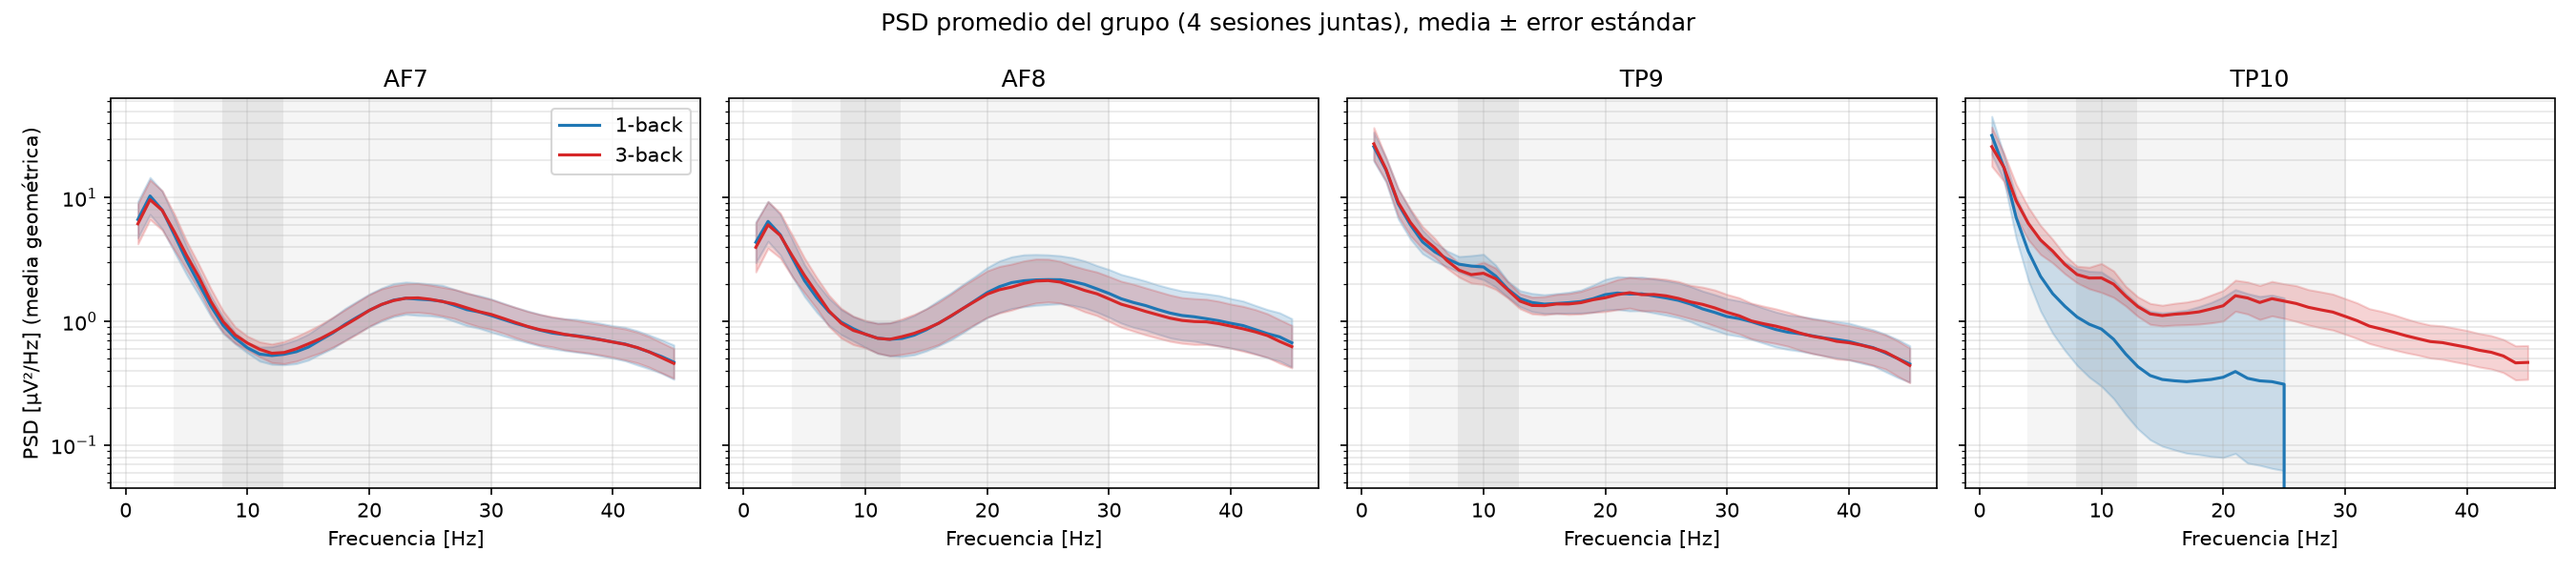
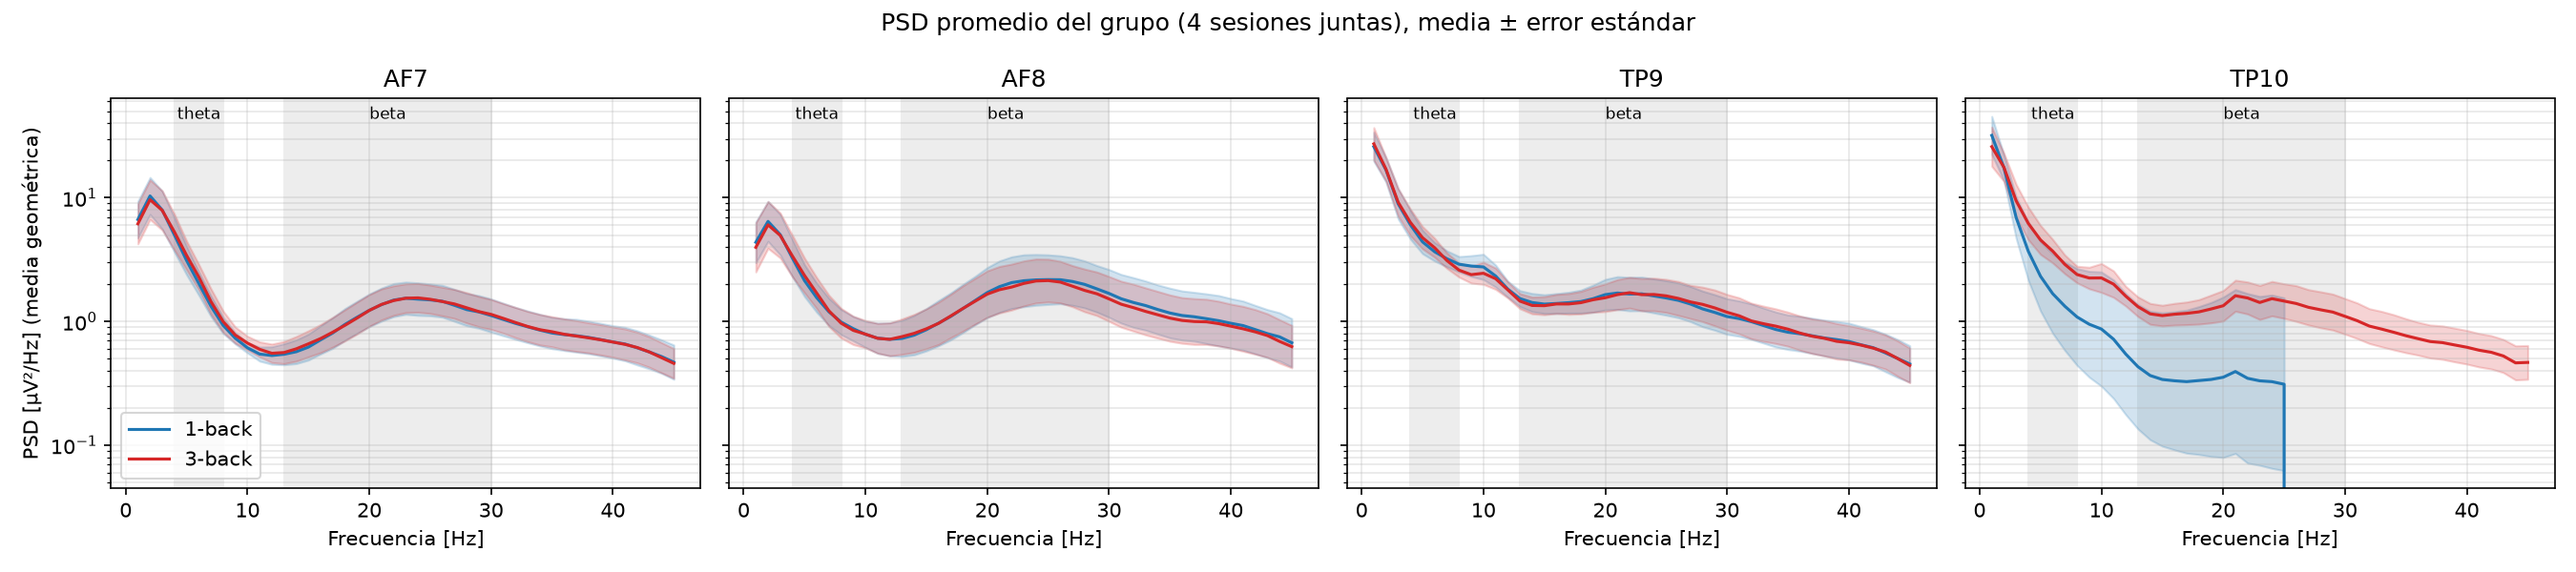
colores

diff --git a/6.analisis_integral.py b/6.analisis_integral.py
@@ -29,6 +29,8 @@ Guarda en resultados/06_grupo/:
   - conducta.csv:           aciertos por sujeto, sesión y tarea
   - grupo_interaccion.png, grupo_efecto_carga.png, grupo_efecto_musica.png,
     grupo_psd.png, grupo_conducta.png
+En las figuras con datos de cada sujeto, A9 (el sujeto del paper) va en naranja.
+Las tablas incluyen las 3 bandas; las figuras muestran solo theta y beta (alfa no se analiza).
 """
 import numpy as np
 import pandas as pd
@@ -44,8 +46,11 @@ VARIABLE = "potencia_rel"      # o "potencia_abs_uV2"
 MIN_VENTANAS = 20              # mínimo de ventanas aceptadas para usar un valor
 TAREAS = ["1-back", "3-back"]
 COLORES_TAREA = {"1-back": "tab:blue", "3-back": "tab:red"}
+SUJETO_PAPER = "A9"            # el sujeto que analiza el paper: se resalta en las figuras
+COLOR_PAPER = "tab:orange"
 canales = cfg.CANALES_ANALISIS
-bandas = list(cfg.BANDAS)
+bandas = list(cfg.BANDAS)                          # tablas: todas las bandas
+BANDAS_GRAFICOS = [b for b in bandas if b != "alfa"]  # figuras: solo theta y beta
 x = np.arange(len(cfg.SESIONES))
 
 
@@ -143,9 +148,9 @@ conducta.round(2).to_csv(DIR_GRUPO / "conducta.csv", index=False)
 # ---------------------------------------------------------------------------
 
 # --- Figura 1: interacción. Filas = bandas, columnas = canales ---
-fig, axs = plt.subplots(len(bandas), len(canales),
-                        figsize=(4.2 * len(canales), 3 * len(bandas)), squeeze=False)
-for fila, banda in enumerate(bandas):
+fig, axs = plt.subplots(len(BANDAS_GRAFICOS), len(canales),
+                        figsize=(4.2 * len(canales), 3 * len(BANDAS_GRAFICOS)), squeeze=False)
+for fila, banda in enumerate(BANDAS_GRAFICOS):
     for col, canal in enumerate(canales):
         ax = axs[fila, col]
         for k, tarea in enumerate(TAREAS):
@@ -168,13 +173,20 @@ fig.savefig(DIR_GRUPO / "grupo_interaccion.png", dpi=150)
 plt.close(fig)
 
 # --- Figura 2: carga, un punto por sujeto ---
-fig, axs = plt.subplots(1, len(bandas), figsize=(4.5 * len(bandas), 4.5), sharey=True)
-for ax, banda in zip(axs, bandas):
+fig, axs = plt.subplots(1, len(BANDAS_GRAFICOS), figsize=(4.5 * len(BANDAS_GRAFICOS), 4.5),
+                        sharey=True, squeeze=False)
+axs = axs[0]
+for ax, banda in zip(axs, BANDAS_GRAFICOS):
     for c, canal in enumerate(canales):
-        v = carga_sujeto[(carga_sujeto["canal"] == canal)
-                         & (carga_sujeto["banda"] == banda)]["cambio_pct"].dropna()
-        ax.scatter(np.full(len(v), c) + np.random.uniform(-0.1, 0.1, len(v)), v,
-                   color="0.5", s=20, zorder=2)
+        d = carga_sujeto[(carga_sujeto["canal"] == canal)
+                         & (carga_sujeto["banda"] == banda)].dropna(subset=["cambio_pct"])
+        v = d["cambio_pct"]
+        es_paper = (d["sujeto"] == SUJETO_PAPER).to_numpy()
+        jitter = np.random.uniform(-0.1, 0.1, len(v))
+        ax.scatter(c + jitter[~es_paper], v[~es_paper], color="0.5", s=20, zorder=2)
+        ax.scatter(c + jitter[es_paper], v[es_paper], color=COLOR_PAPER, s=45,
+                   edgecolor="k", lw=0.5, zorder=4,
+                   label=SUJETO_PAPER if c == 0 else None)
         ax.scatter(c, a_pct(np.log10(1 + v / 100).mean()), color="k", marker="_",
                    s=600, zorder=3)
         ax.text(c, 1.0, f"{(v < 0).sum()}↓ {(v > 0).sum()}↑",
@@ -185,22 +197,28 @@ for ax, banda in zip(axs, bandas):
     ax.set_title(banda)
     ax.grid(alpha=0.3, axis="y")
 axs[0].set_ylabel("Cambio 3-back vs 1-back [%]")
-fig.suptitle("Efecto de la carga: cada sujeto (gris) y media del grupo (negro); "
-             "↓↑ = sujetos que bajan / suben")
+axs[0].legend(loc="lower left")
+fig.suptitle(f"Efecto de la carga: cada sujeto (gris), {SUJETO_PAPER} (naranja) y media del "
+             "grupo (negro); ↓↑ = sujetos que bajan / suben")
 fig.tight_layout()
 fig.savefig(DIR_GRUPO / "grupo_efecto_carga.png", dpi=150)
 plt.close(fig)
 
 # --- Figura 3: música, una línea por sujeto ---
-fig, axs = plt.subplots(len(bandas), len(canales),
-                        figsize=(4.2 * len(canales), 3 * len(bandas)), squeeze=False, sharex=True)
-for fila, banda in enumerate(bandas):
+fig, axs = plt.subplots(len(BANDAS_GRAFICOS), len(canales),
+                        figsize=(4.2 * len(canales), 3 * len(BANDAS_GRAFICOS)), squeeze=False,
+                        sharex=True)
+for fila, banda in enumerate(BANDAS_GRAFICOS):
     for col, canal in enumerate(canales):
         ax = axs[fila, col]
         m = log_musica.xs((canal, banda), level=["canal", "banda"])
-        for _, valores in m.iterrows():
-            ax.plot(x, a_pct(valores), color="0.7", lw=0.8)
-        ax.plot(x, a_pct(m.mean()), color="k", lw=2, marker="o")
+        for sujeto, valores in m.iterrows():
+            if sujeto != SUJETO_PAPER:
+                ax.plot(x, a_pct(valores), color="0.7", lw=0.8)
+        ax.plot(x, a_pct(m.mean()), color="k", lw=2, marker="o", label="media del grupo")
+        if SUJETO_PAPER in m.index:
+            ax.plot(x, a_pct(m.loc[SUJETO_PAPER]), color=COLOR_PAPER, lw=2, marker="s",
+                    ms=4, label=SUJETO_PAPER, zorder=4)
         ax.axhline(0, color="r", ls="--", lw=0.8)
         ax.set_xticks(x)
         ax.set_xticklabels(cfg.SESIONES, rotation=20, fontsize=8)
@@ -209,8 +227,10 @@ for fila, banda in enumerate(bandas):
         if col == 0:
             ax.set_ylabel(f"{banda}\ncambio vs {cfg.SESION_REFERENCIA} [%]")
         ax.grid(alpha=0.3)
-fig.suptitle("Efecto de la música: cada sujeto (gris) y media del grupo (negro)")
-fig.tight_layout()
+fig.legend(*axs[0, 0].get_legend_handles_labels(), loc="upper right", ncol=2)
+fig.suptitle(f"Efecto de la música: cada sujeto (gris), {SUJETO_PAPER} (naranja) "
+             "y media del grupo (negro)", x=0.01, ha="left")
+fig.tight_layout(rect=(0, 0, 1, 0.95))
 fig.savefig(DIR_GRUPO / "grupo_efecto_musica.png", dpi=150)
 plt.close(fig)
 
@@ -224,8 +244,11 @@ psd_sujeto = psd.groupby(["sujeto", "canal", "tarea", "frecuencia_Hz"])["log_psd
 fig, axs = plt.subplots(1, len(canales), figsize=(4.5 * len(canales), 4), sharey=True,
                         squeeze=False)
 for ax, canal in zip(axs[0], canales):
-    for banda, (lo, hi) in cfg.BANDAS.items():
-        ax.axvspan(lo, hi, color="0.9" if banda == "alfa" else "0.96")
+    for banda in BANDAS_GRAFICOS:               # sombreado solo de theta y beta
+        lo, hi = cfg.BANDAS[banda]
+        ax.axvspan(lo, hi, color="0.93")
+        ax.text((lo + hi) / 2, 0.98, banda, transform=ax.get_xaxis_transform(),
+                ha="center", va="top", fontsize=8)
     for tarea in TAREAS:
         d = psd_sujeto[(psd_sujeto["canal"] == canal) & (psd_sujeto["tarea"] == tarea)]
         g = d.groupby("frecuencia_Hz")["log_psd"].agg(["mean", "sem"])
@@ -237,7 +260,7 @@ for ax, canal in zip(axs[0], canales):
     ax.set_xlabel("Frecuencia [Hz]")
     ax.grid(alpha=0.3, which="both")
 axs[0, 0].set_ylabel("PSD [µV²/Hz] (media geométrica)")
-axs[0, 0].legend()
+axs[0, 0].legend(loc="lower left")
 fig.suptitle("PSD promedio del grupo (4 sesiones juntas), media ± error estándar")
 fig.tight_layout()
 fig.savefig(DIR_GRUPO / "grupo_psd.png", dpi=150)
@@ -248,15 +271,22 @@ fig, ax = plt.subplots(figsize=(7, 4.5))
 for tarea in TAREAS:
     d = conducta[conducta["tarea"] == tarea].pivot_table(
         index="sujeto", columns="sesion", values="aciertos_pct").reindex(columns=cfg.SESIONES)
-    for _, valores in d.iterrows():
-        ax.plot(x, valores, color=COLORES_TAREA[tarea], alpha=0.25, lw=0.8)
+    for sujeto, valores in d.iterrows():
+        if sujeto != SUJETO_PAPER:
+            ax.plot(x, valores, color=COLORES_TAREA[tarea], alpha=0.25, lw=0.8)
     ax.errorbar(x, d.mean(), yerr=d.sem(), color=COLORES_TAREA[tarea], lw=2,
-                marker="o", capsize=3, label=tarea)
+                marker="o", capsize=3, label=f"{tarea} (media)")
+    if SUJETO_PAPER in d.index:
+        ax.plot(x, d.loc[SUJETO_PAPER], color=COLOR_PAPER, lw=2,
+                ls="-" if tarea == "1-back" else "--",
+                marker="o" if tarea == "1-back" else "s", ms=5,
+                label=f"{SUJETO_PAPER} {tarea}", zorder=4)
 ax.set_xticks(x)
 ax.set_xticklabels(cfg.SESIONES, rotation=15)
 ax.set_ylabel("Aciertos [%]")
-ax.set_title("Aciertos por sesión: cada sujeto (fino) y media ± error estándar (grueso)")
-ax.legend()
+ax.set_title(f"Aciertos por sesión: cada sujeto (fino), {SUJETO_PAPER} (naranja) "
+             "y media ± error estándar", fontsize=10)
+ax.legend(fontsize=8, loc="best")
 ax.grid(alpha=0.3)
 fig.tight_layout()
 fig.savefig(DIR_GRUPO / "grupo_conducta.png", dpi=150)
